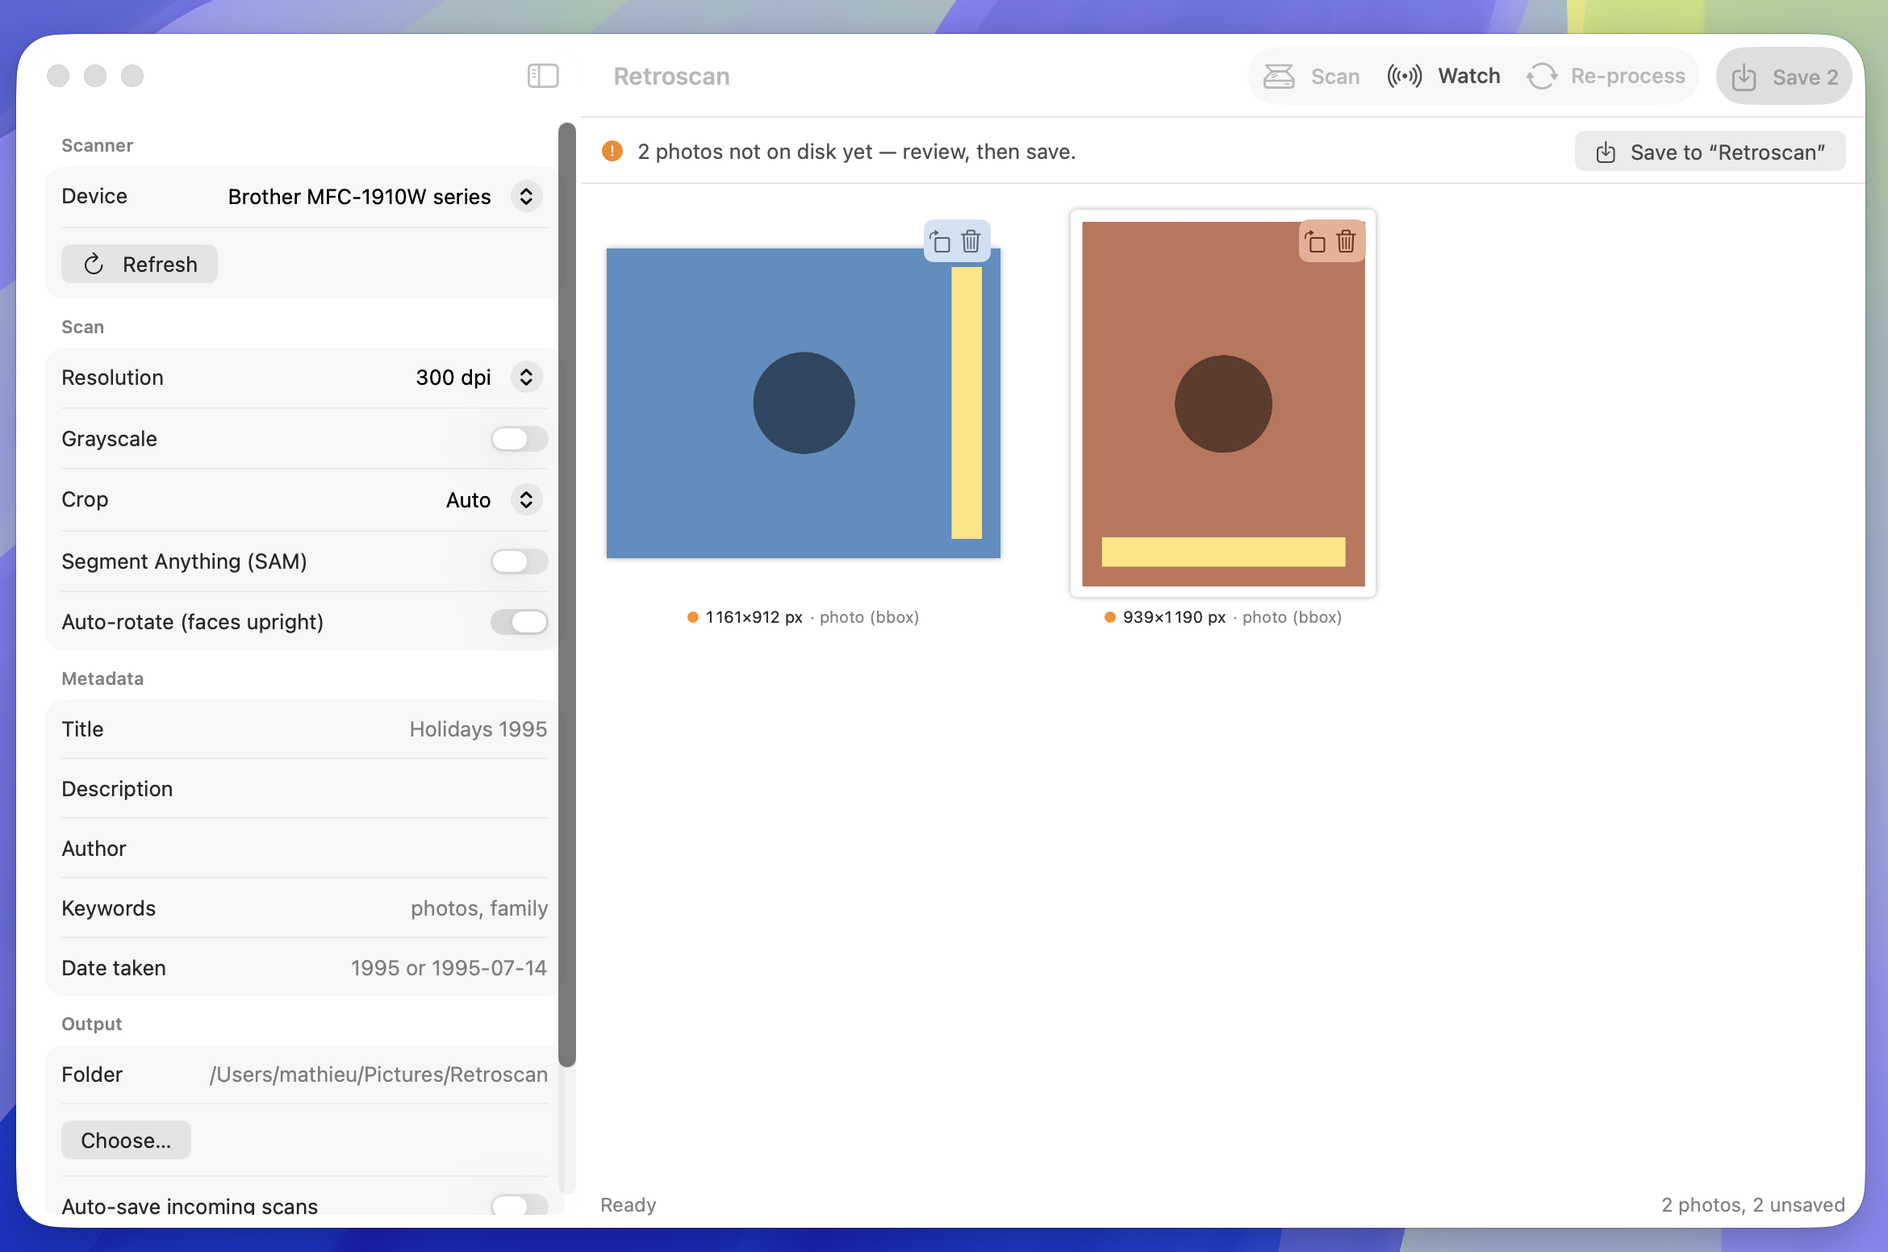
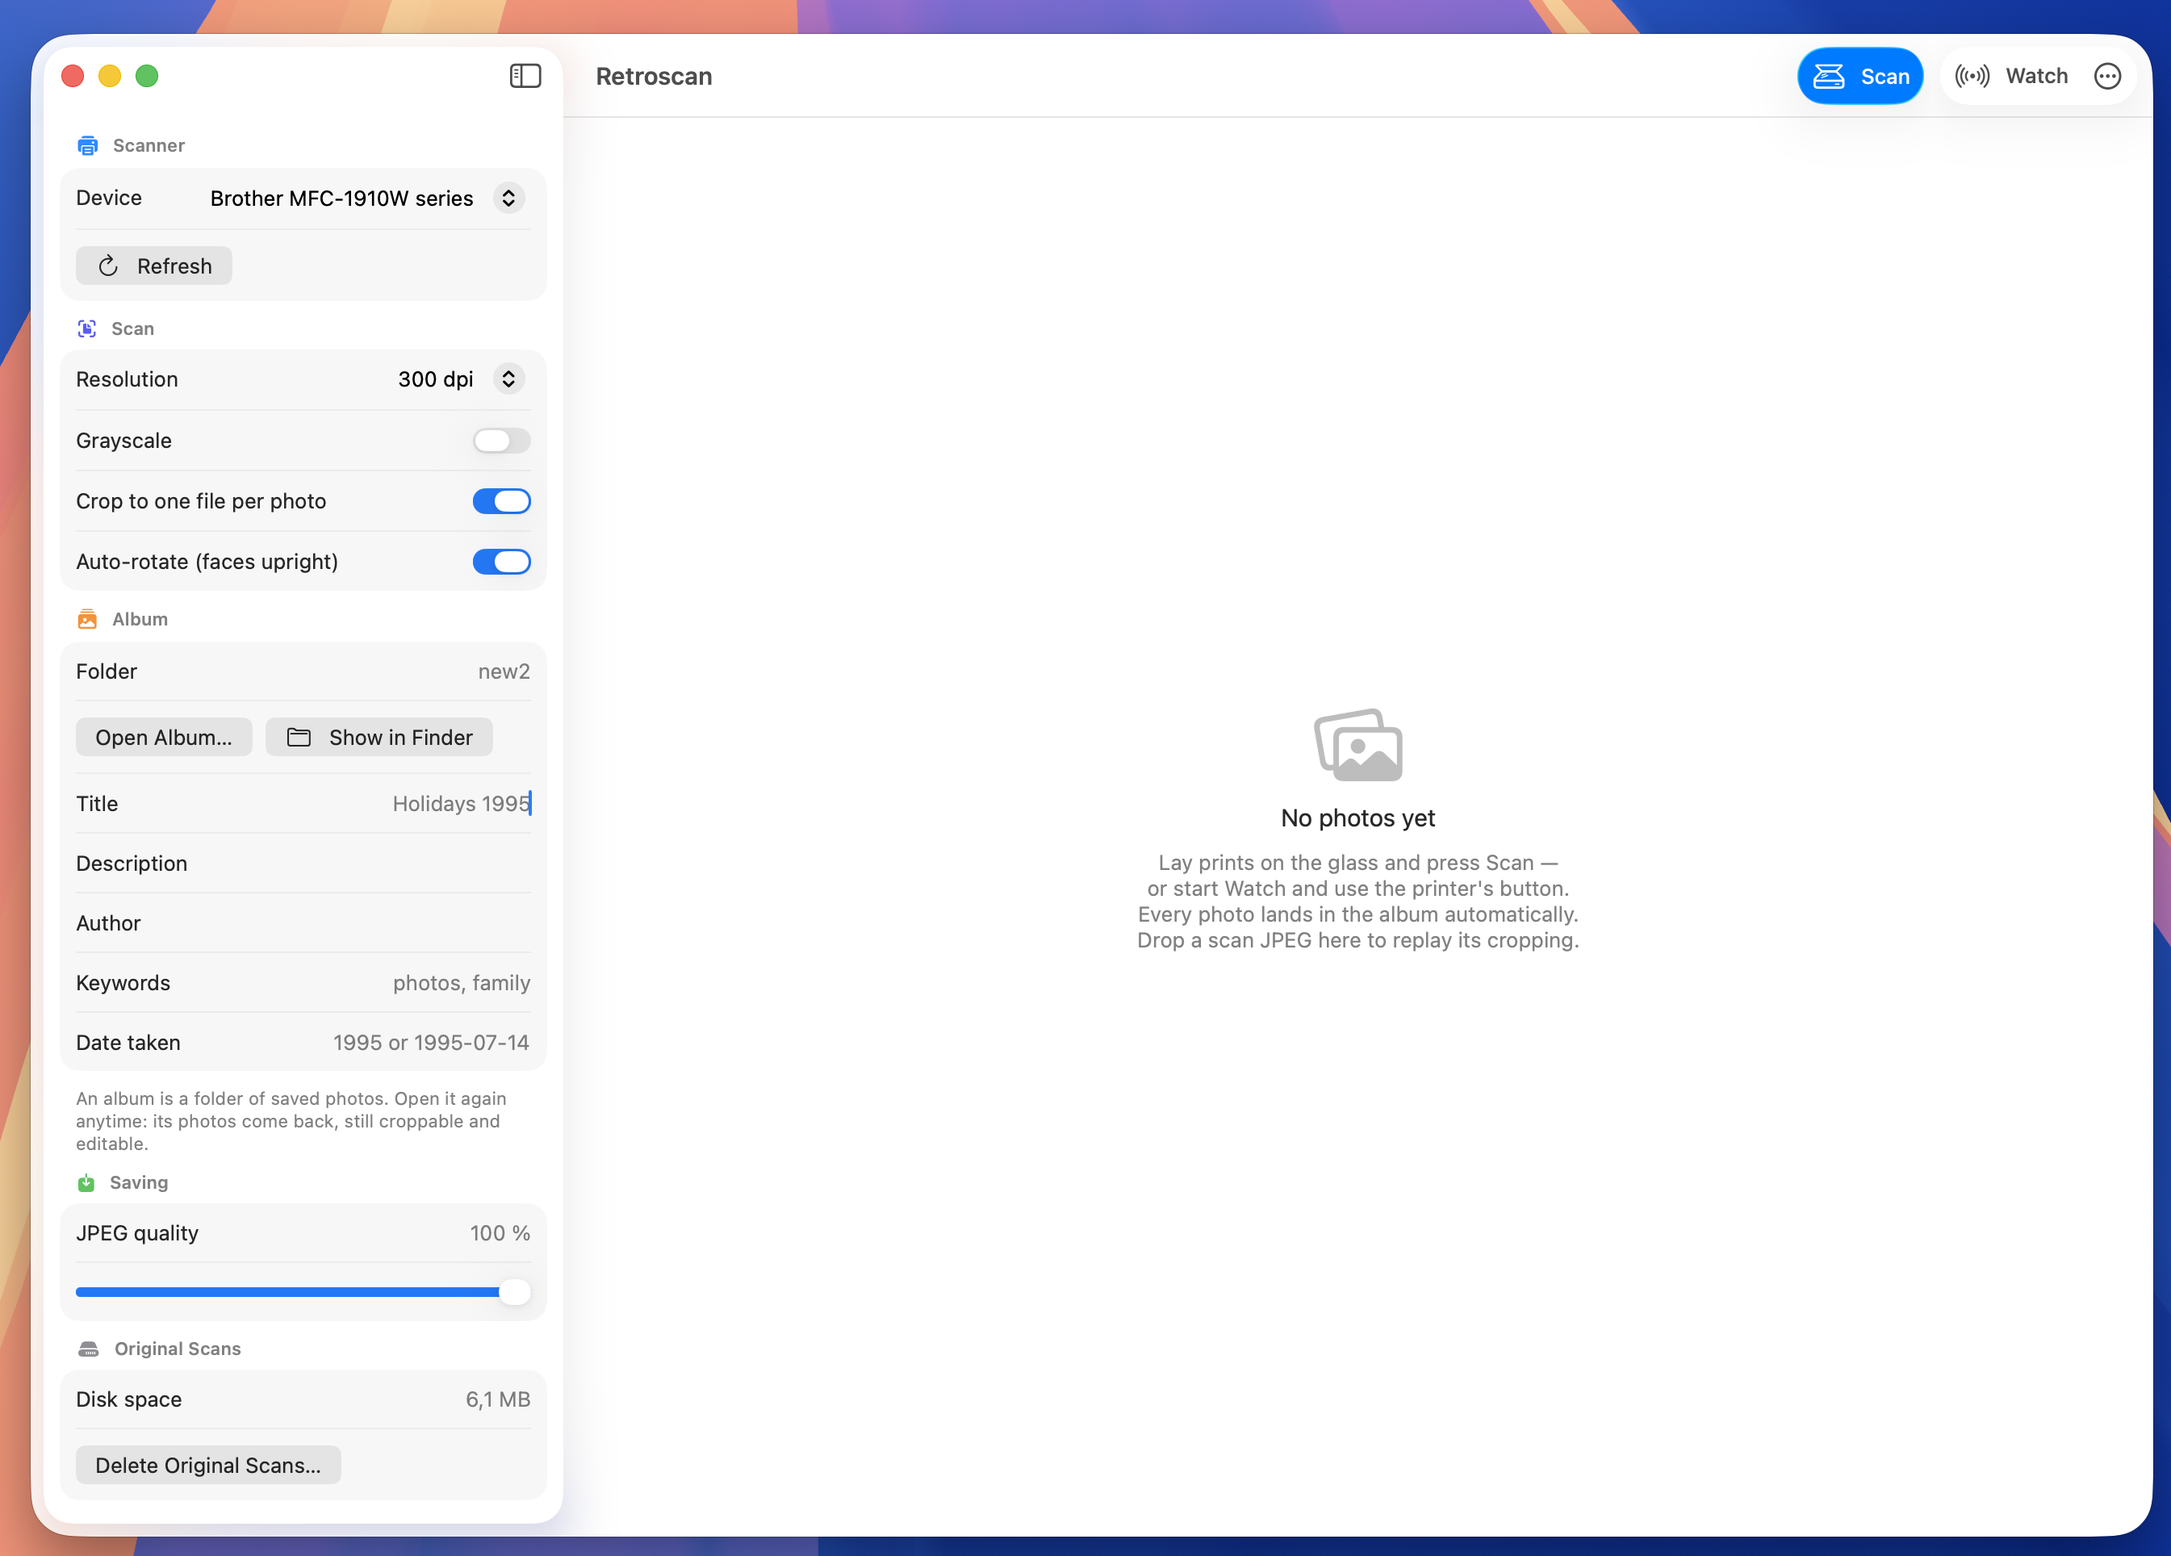
App: one primary action in the toolbar, colour in the sidebar, progress in the grid
- Scan is the only accent-tinted control. Watch stays bordered and turns red
  with a stop icon while it listens. Re-process and Clear Grid move into an
  overflow menu — Re-process lost most of its claim to the toolbar when the
  five crop strategies became one toggle.
- Every sidebar section header carries a tinted SF Symbol. Only the symbol
  takes the colour; the title stays standard.
- The bottom status bar is gone. A running scan shows a photo-sized
  placeholder in the grid instead, spinner inside and the scanner's own
  progress as its caption, so the feedback sits where the photos will land.
  New `scanning` flag, narrower than `busy` (which also covers rewriting a
  photo that already exists); raised in watch mode too, its main use.
- What that costs: statuses unrelated to scanning ("Rewrote scan-3.jpg",
  "Updating metadata… 5/40") no longer have anywhere to appear. Errors
  already go through an alert, so nothing critical is lost.
- The idle status is now the empty string rather than "Ready": an idle app
  has no need to announce that nothing is happening.

docs/app.png replaced — the committed one still showed the SAM toggle, the
Crop strategy picker and the "2 photos not on disk yet" banner, all removed
several commits ago.

diff --git a/Sources/RetroscanApp/ContentView.swift b/Sources/RetroscanApp/ContentView.swift
@@ -10,48 +10,61 @@ struct ContentView: View {
                 .navigationSplitViewColumnWidth(min: 280, ideal: 320, max: 380)
         } detail: {
             PhotoGrid()
-                .safeAreaInset(edge: .bottom, spacing: 0) { StatusBar() }
         }
         .frame(minWidth: 900, minHeight: 560)
         .toolbar {
-            ToolbarItemGroup {
+            // Scan is the one thing this app is for, so it is the only
+            // accent-tinted control; Watch turns solid red while it is live,
+            // the way a recording control does. Everything rarer lives in
+            // the overflow menu.
+            ToolbarItemGroup(placement: .primaryAction) {
                 Button {
                     model.scanOnce()
                 } label: {
                     Label("Scan", systemImage: "scanner")
                         .labelStyle(.titleAndIcon)
                 }
+                .buttonStyle(.borderedProminent)
                 .disabled(model.busy || model.watching)
                 .help("Scan now")
 
                 Button {
                     model.toggleWatch()
                 } label: {
-                    Label(model.watching ? "Stop watching" : "Watch",
-                          systemImage: "dot.radiowaves.left.and.right")
+                    Label(model.watching ? "Stop" : "Watch",
+                          systemImage: model.watching
+                              ? "stop.circle.fill" : "dot.radiowaves.left.and.right")
                         .labelStyle(.titleAndIcon)
-                        .foregroundStyle(model.watching ? Color.red : Color.primary)
                 }
+                .buttonStyle(.bordered)
+                .tint(model.watching ? .red : nil)
                 .disabled(model.busy)
-                .help("Register on the printer's Scan to PC menu and scan on each button press")
+                .help(model.watching
+                      ? "Stop listening for the printer's Scan button"
+                      : "Register on the printer's Scan to PC menu and scan on each button press")
 
-                Button {
-                    model.reprocessLastScan()
-                } label: {
-                    Label("Re-process", systemImage: "arrow.triangle.2.circlepath")
-                        .labelStyle(.titleAndIcon)
-                }
-                .disabled(!model.canReprocess)
-                .help("Re-run cropping on the last scan with the current settings — no rescan")
+                Menu {
+                    Button {
+                        model.reprocessLastScan()
+                    } label: {
+                        Label("Re-process Last Scan", systemImage: "arrow.triangle.2.circlepath")
+                    }
+                    .disabled(!model.canReprocess)
+                    .help("Re-run cropping on the last scan with the current settings — no rescan")
 
-                Button {
-                    model.clearAll()
+                    Divider()
+
+                    Button(role: .destructive) {
+                        model.clearAll()
+                    } label: {
+                        Label("Clear Grid", systemImage: "xmark.bin")
+                    }
+                    .disabled(model.photos.isEmpty || model.busy)
                 } label: {
-                    Label("Clear Grid", systemImage: "xmark.bin")
-                        .labelStyle(.titleAndIcon)
+                    Label("More", systemImage: "ellipsis.circle")
                 }
-                .disabled(model.photos.isEmpty || model.busy)
-                .help("Remove every photo from the grid — files on disk and original scans are kept; open the album to bring them back")
+                .menuIndicator(.hidden)
+                .help("Re-process the last scan, or clear the grid")
             }
         }
         .alert("retroscan", isPresented: Binding(
@@ -73,7 +86,7 @@ struct SettingsPane: View {
 
     var body: some View {
         Form {
-            Section("Scanner") {
+            Section {
                 Picker("Device", selection: $model.selectedScanner) {
                     if model.scanners.isEmpty {
                         Text(model.discovering ? "Searching…" : "None found")
@@ -93,9 +106,11 @@ struct SettingsPane: View {
                     }
                 }
                 .disabled(model.discovering)
+            } header: {
+                SectionLabel("Scanner", "printer.fill", .blue)
             }
 
-            Section("Scan") {
+            Section {
                 Picker("Resolution", selection: $model.resolution) {
                     ForEach([100, 150, 200, 300, 600], id: \.self) { dpi in
                         Text("\(dpi) dpi").tag(dpi)
@@ -104,6 +119,8 @@ struct SettingsPane: View {
                 Toggle("Grayscale", isOn: $model.grayscale)
                 Toggle("Crop to one file per photo", isOn: $model.splitPhotos)
                 Toggle("Auto-rotate (faces upright)", isOn: $model.autoRotate)
+            } header: {
+                SectionLabel("Scan", "doc.viewfinder.fill", .indigo)
             }
 
             Section {
@@ -133,13 +150,13 @@ struct SettingsPane: View {
                         .foregroundStyle(.red)
                 }
             } header: {
-                Text("Album")
+                SectionLabel("Album", "photo.stack.fill", .orange)
             } footer: {
                 Text("An album is a folder of saved photos. Open it again anytime: its photos come back, still croppable and editable.")
                     .foregroundStyle(.secondary)
             }
 
-            Section("Saving") {
+            Section {
                 LabeledContent("JPEG quality") {
                     Text("\(Int((model.quality * 100).rounded())) %")
                         .foregroundStyle(.secondary)
@@ -148,9 +165,11 @@ struct SettingsPane: View {
                     Text("JPEG quality")
                 }
                 .labelsHidden()
+            } header: {
+                SectionLabel("Saving", "square.and.arrow.down.fill", .green)
             }
 
-            Section("Original Scans") {
+            Section {
                 LabeledContent("Disk space", value: model.cacheSizeText)
                     .help("Every scanned page is kept so photo crops stay adjustable — even after saving")
                 Button("Delete Original Scans…") {
@@ -163,9 +182,33 @@ struct SettingsPane: View {
                 } message: {
                     Text("Photos keep their current crop and saved files stay on disk, but crops can no longer be re-adjusted.")
                 }
+            } header: {
+                SectionLabel("Original Scans", "internaldrive.fill", .gray)
             }
         }
         .formStyle(.grouped)
+    }
+}
+
+/// A section header with a tinted symbol — the colour is what makes the
+/// sidebar scannable, so only the symbol takes it, never the title.
+struct SectionLabel: View {
+    let title: String
+    let symbol: String
+    let tint: Color
+
+    init(_ title: String, _ symbol: String, _ tint: Color) {
+        self.title = title
+        self.symbol = symbol
+        self.tint = tint
+    }
+
+    var body: some View {
+        Label {
+            Text(title)
+        } icon: {
+            Image(systemName: symbol).foregroundStyle(tint)
+        }
     }
 }
 
@@ -176,7 +219,7 @@ struct PhotoGrid: View {
 
     var body: some View {
         Group {
-            if model.photos.isEmpty {
+            if model.photos.isEmpty && !model.scanning {
                 VStack(spacing: 10) {
                     Image(systemName: "photo.on.rectangle.angled")
                         .font(.system(size: 44))
@@ -194,6 +237,11 @@ struct PhotoGrid: View {
                               spacing: 16) {
                         ForEach(model.photos) { photo in
                             PhotoCell(photo: photo)
+                        }
+                        // New photos are appended, so the placeholder sits
+                        // exactly where they are about to land.
+                        if model.scanning {
+                            ScanningCell(status: model.status)
                         }
                     }
                     .padding(16)
@@ -494,30 +542,29 @@ struct CropEditorView: View {
     }
 }
 
-// MARK: - Status bar
+// MARK: - Scan in progress
 
-struct StatusBar: View {
-    @EnvironmentObject var model: ScanModel
+/// Stands in for the photos a running scan is about to produce: a photo-sized
+/// frame with the spinner inside and the scanner's own progress as its caption
+/// ("Scanning… page 1: 512 KB"), so the feedback is where the result will be.
+struct ScanningCell: View {
+    let status: String
 
     var body: some View {
-        HStack(spacing: 8) {
-            if model.busy || model.watching {
-                ProgressView()
-                    .controlSize(.small)
-            }
-            Text(model.status)
-                .font(.callout)
+        VStack(spacing: 6) {
+            RoundedRectangle(cornerRadius: 4)
+                .fill(.quaternary)
+                .aspectRatio(3.0 / 4.0, contentMode: .fit)
+                .frame(maxHeight: 240)
+                .overlay {
+                    ProgressView()
+                        .controlSize(.small)
+                }
+            Text(status.isEmpty ? "Scanning…" : status)
+                .font(.caption)
                 .foregroundStyle(.secondary)
                 .lineLimit(1)
-            Spacer()
-            if !model.photos.isEmpty {
-                Text("\(model.photos.count) photo\(model.photos.count > 1 ? "s" : "")")
-                    .font(.callout)
-                    .foregroundStyle(.secondary)
-            }
+                .truncationMode(.tail)
         }
-        .padding(.horizontal, 12)
-        .padding(.vertical, 7)
-        .background(.bar)
     }
 }

diff --git a/Sources/RetroscanApp/ScanModel+Scanner.swift b/Sources/RetroscanApp/ScanModel+Scanner.swift
@@ -36,12 +36,13 @@ extension ScanModel {
             return
         }
         busy = true
+        scanning = true
         let settings = snapshotSettings()
         workQueue.async {
             do {
                 let (pages, dpi) = try self.scan(endpoint: endpoint, settings: settings)
                 try self.process(pages: pages, dpi: dpi, model: modelName, settings: settings)
-                DispatchQueue.main.async { self.busy = false; self.status = "Ready" }
+                DispatchQueue.main.async { self.busy = false; self.scanning = false; self.status = "" }
             } catch {
                 self.finish(with: error)
             }
@@ -54,6 +55,7 @@ extension ScanModel {
     func processFile(_ url: URL) {
         guard !busy else { return }
         busy = true
+        scanning = true
         status = "Processing \(url.lastPathComponent)…"
         let settings = snapshotSettings()
         workQueue.async {
@@ -63,7 +65,7 @@ extension ScanModel {
                 }
                 try self.process(pages: [data], dpi: settings.resolution, model: nil,
                                  settings: settings)
-                DispatchQueue.main.async { self.busy = false; self.status = "Ready" }
+                DispatchQueue.main.async { self.busy = false; self.scanning = false; self.status = "" }
             } catch {
                 self.finish(with: error)
             }
@@ -110,6 +112,7 @@ extension ScanModel {
                     // A failed scan (jam, cover open, busy) shouldn't end the
                     // session: report it and keep listening, like the CLI.
                     do {
+                        DispatchQueue.main.async { self.scanning = true }
                         self.setStatus("Scan button pressed…")
                         let (pages, dpi) = try self.scan(endpoint: endpoint, settings: settings)
                         // Hop to workQueue so file writes (JPEGs, album
@@ -118,8 +121,10 @@ extension ScanModel {
                             try self.process(pages: pages, dpi: dpi, model: modelName,
                                              settings: settings)
                         }
+                        DispatchQueue.main.async { self.scanning = false }
                         self.setStatus("Watching — ready for the next press")
                     } catch {
+                        DispatchQueue.main.async { self.scanning = false }
                         self.setStatus("\(error) — still watching")
                         Thread.sleep(forTimeInterval: 3)
                     }
@@ -127,13 +132,13 @@ extension ScanModel {
                 DispatchQueue.main.async {
                     self.listener = nil
                     self.watching = false
-                    self.status = "Ready"
+                    self.status = ""
                 }
             } catch {
                 DispatchQueue.main.async {
                     self.listener = nil
                     self.watching = false
-                    self.status = "Ready"
+                    self.status = ""
                     self.errorMessage = "\(error)"
                 }
             }
@@ -150,6 +155,7 @@ extension ScanModel {
     func reprocessLastScan() {
         guard !busy, !watching, let last = lastBatch else { return }
         busy = true
+        scanning = true
         let settings = snapshotSettings()
         let dropped = photos.filter { $0.batch == last.id }
         photos.removeAll { $0.batch == last.id }
@@ -163,7 +169,7 @@ extension ScanModel {
                 try self.process(pages: last.pages, dpi: last.dpi, model: last.model,
                                  settings: settings,
                                  existingBatch: (last.id, last.pageURLs))
-                DispatchQueue.main.async { self.busy = false; self.status = "Ready" }
+                DispatchQueue.main.async { self.busy = false; self.scanning = false; self.status = "" }
             } catch {
                 self.finish(with: error)
             }

diff --git a/Sources/RetroscanApp/ScanModel.swift b/Sources/RetroscanApp/ScanModel.swift
@@ -95,7 +95,13 @@ final class ScanModel: ObservableObject {
     @Published var photos: [AlbumPhoto] = []
     @Published var busy = false
     @Published var watching = false
-    @Published var status = "Ready"
+    /// A scan is being acquired or processed, so the grid shows a placeholder
+    /// where the photos are about to land. Narrower than `busy`, which also
+    /// covers rewriting a photo that already exists.
+    @Published var scanning = false
+    /// What the status bar shows; empty means idle, and the bar stays blank
+    /// rather than announcing that nothing is happening.
+    @Published var status = ""
     @Published var errorMessage: String?
     /// Total size of the cached raw pages — the disk cost of keeping every
     /// crop adjustable. Recomputed alongside the cache manifest.
@@ -212,7 +218,8 @@ final class ScanModel: ObservableObject {
     func finish(with error: Error) {
         DispatchQueue.main.async {
             self.busy = false
-            self.status = "Ready"
+            self.scanning = false
+            self.status = ""
             self.errorMessage = "\(error)"
         }
     }

diff --git a/README.md b/README.md
@@ -34,7 +34,7 @@ make check       # self-check the crop pipeline on synthetic pages (no scanner)
 
 ## 🖥 The app
 
-![Retroscan.app: the album grid with two cropped photos](docs/app.png)
+![Retroscan.app: the settings sidebar and the album grid](docs/app.png)
 
 `make app` installs **Retroscan.app**, a SwiftUI front-end to the same
 engine (both are thin layers over the `RetroscanKit` library target):
